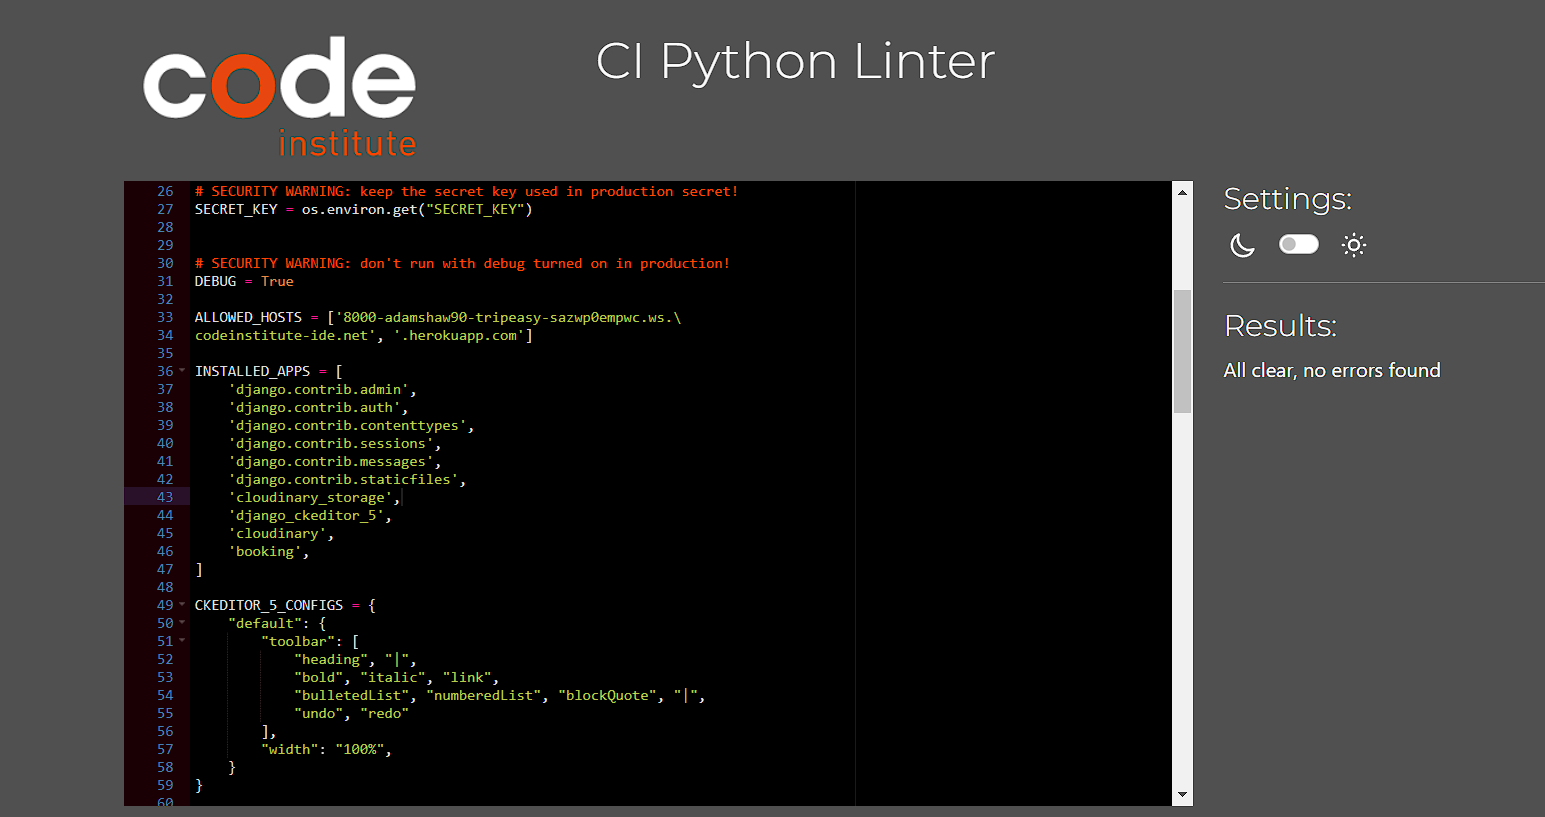
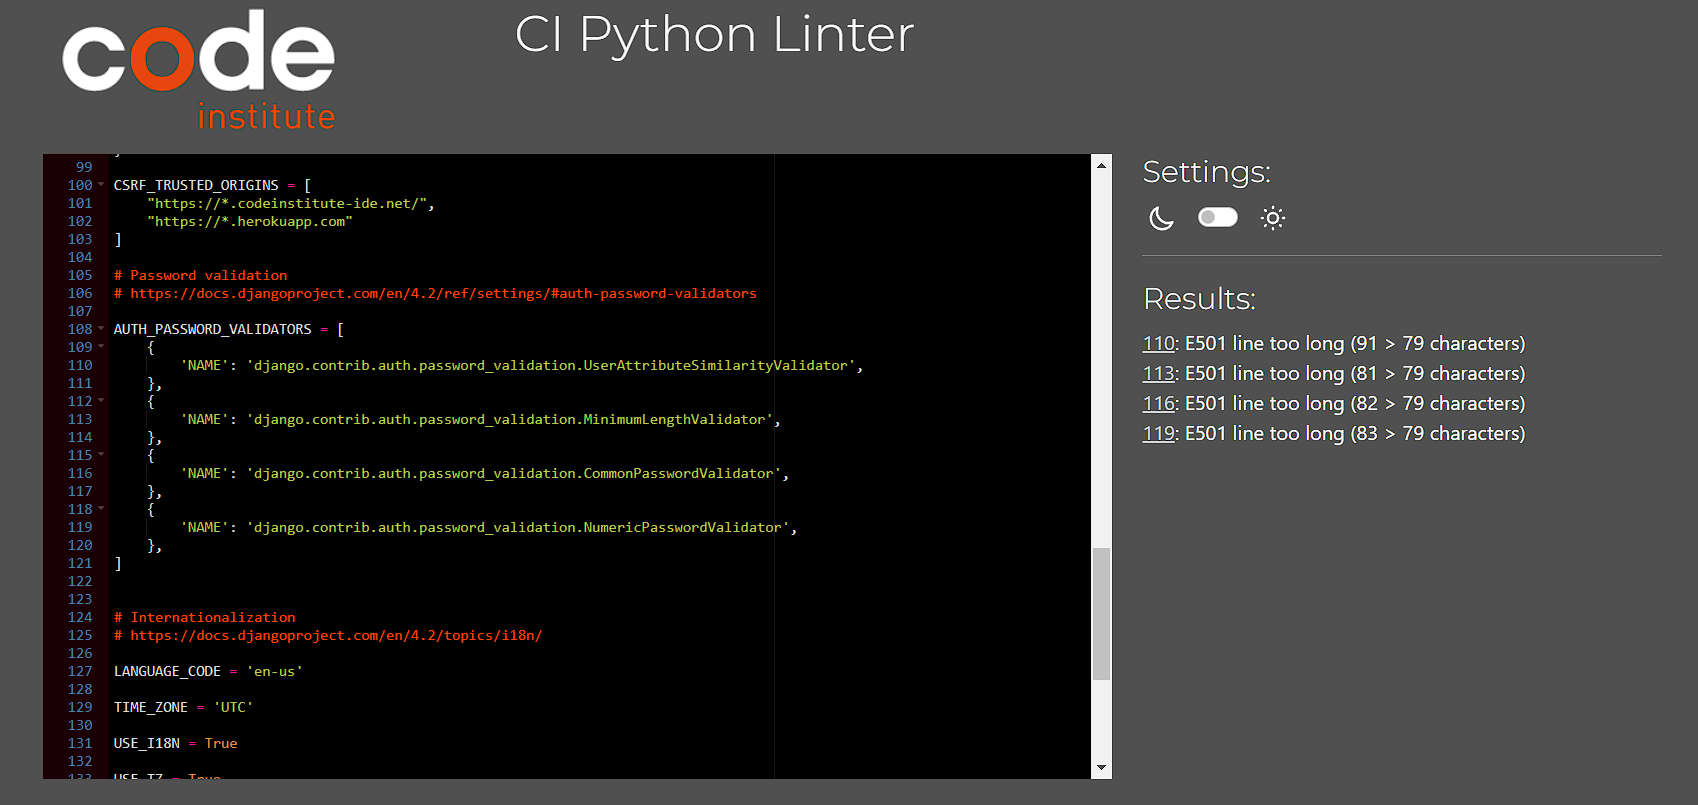
Update testing.md

Changed region(s): [[0.0, 0.0, 0.932, 0.9938], [0.3107, 0.0311, 0.6524, 0.0932]]

diff --git a/booking/views.py b/booking/views.py
@@ -19,7 +19,8 @@ def about(request):
 
 def itineraries(request):
     itineraries = Itinerary.objects.all()
-    return render(request, 'booking/itineraries.html', {'itineraries': itineraries})    
+    return render(request, 'booking/itineraries.html',
+                  {'itineraries': itineraries})
 
 
 def sign_up(request):
@@ -57,13 +58,13 @@ def confirm_logout_view(request):
         logout(request)
         messages.success(request, "You have been logged out.")
         return redirect('home')
-    return render(request, 'booking/confirm_logout.html')    
+    return render(request, 'booking/confirm_logout.html')
 
 
 @login_required
 def profile_view(request):
     profile = request.user.profile
-    
+
     user_bookings = Booking.objects.filter(user=request.user)
     return render(request, 'booking/profile.html', {
         'profile': profile,
@@ -79,7 +80,7 @@ def cancel_booking(request, pk):
         messages.success(request, "Your booking has been canceled.")
         return redirect('profile')
     else:
-        
+
         return redirect('profile')
 
 
@@ -88,15 +89,16 @@ def confirm_cancel_booking(request, booking_id):
     """Ask the user to confirm before canceling their booking."""
     # Ensure only the owner (or admin) can cancel this booking
     booking = get_object_or_404(Booking, pk=booking_id, user=request.user)
-    
+
     if request.method == 'POST':
         # User confirmed cancellation
-        booking.delete() 
+        booking.delete()
         messages.success(request, "Booking canceled successfully.")
         return redirect('profile')
-    
+
     # For GET requests, show the confirmation template
-    return render(request, 'booking/confirm_cancel_booking.html', {'booking': booking})
+    return render(request, 'booking/confirm_cancel_booking.html',
+                  {'booking': booking})
 
 
 @login_required
@@ -112,7 +114,7 @@ def profile_update(request):
         form = ProfileForm(instance=profile, user=request.user)
     return render(request, 'booking/profile_edit.html', {'form': form})
 
-    
+
 @login_required
 def delete_profile(request):
     if request.method == 'POST':
@@ -140,12 +142,14 @@ def itinerary_create(request):
 
 def itinerary_list(request):
     itineraries = Itinerary.objects.all()
-    return render(request, 'booking/itinerary_list.html', {'itineraries': itineraries})
+    return render(request, 'booking/itinerary_list.html',
+                  {'itineraries': itineraries})
 
 
 def itinerary_detail(request, pk):
     itinerary = get_object_or_404(Itinerary, pk=pk)
-    return render(request, 'booking/itinerary_detail.html', {'itinerary': itinerary})
+    return render(request, 'booking/itinerary_detail.html',
+                  {'itinerary': itinerary})
 
 
 @login_required
@@ -175,7 +179,8 @@ def itinerary_delete(request, pk):
         itinerary.delete()
         messages.success(request, "Itinerary deleted.")
         return redirect('home')
-    return render(request, 'booking/itinerary_confirm_delete.html', {'itinerary': itinerary})
+    return render(request, 'booking/itinerary_confirm_delete.html',
+                  {'itinerary': itinerary})
 
 
 @login_required
@@ -270,7 +275,8 @@ def delete_review(request, review_id):
         messages.success(request, "Review deleted successfully.")
         return redirect('itinerary_detail', pk=itinerary_id)
 
-    return render(request, 'booking/confirm_delete_review.html', {'review': review})
+    return render(request, 'booking/confirm_delete_review.html',
+                  {'review': review})
 
 
 def custom_404(request, exception):
@@ -294,7 +300,7 @@ def contact_view(request):
             )
 
             messages.success(request, "Thank you for contacting us! Your request has been received.")
-            return redirect('contact')  
+            return redirect('contact')
     else:
         form = ContactForm()
 

diff --git a/TESTING.md b/TESTING.md
@@ -50,7 +50,7 @@ I have used the recommended [PEP8 CI Python Linter](https://pep8ci.herokuapp.com
 | File | Screenshot | Notes |
 | --- | --- | --- |
 | asgi.py | ![screenshot](documentation/validation/python/tripeasy/tripeasy_asgi.png) | Pass: No Errors |
-| settings.py | ![screenshot](documentation/validation/python/tripeasy/tripeasy_settings.png) | Pass: No Errors |
+| settings.py | ![screenshot](documentation/validation/python/tripeasy/tripeasy_settings.png) | AUTH_PASSWORD_VALIDATORS lines too long  |
 | urls.py | ![screenshot](documentation/validation/python/tripeasy/tripeasy_urls.png) | Pass: No Errors |
 | wsgi.py | ![screenshot](documentation/validation/python/tripeasy/tripeasy_wsgi.png) | Pass: No Errors |
 
